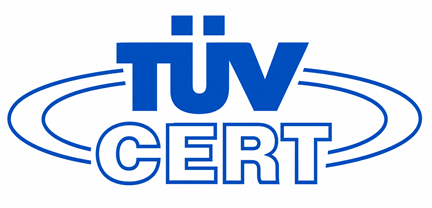
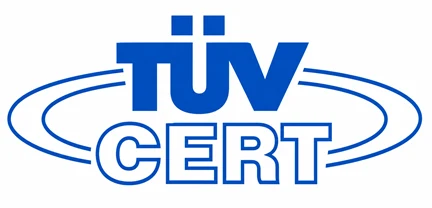
Shrink certificate, header and machinery images; remove leftover PNG
- Re-encode certificate and header as lossy WebP (about 80% smaller)
- Resize the machinery photos to twice their display size
- Update machinery.html image sizes
- Delete the unused harware-&-cons2.png

diff --git a/machinery.html b/machinery.html
@@ -113,7 +113,7 @@
 				</ul>
 			</div>
 			<figure class="spec-photo">
-					<img src="images/machinery-press-1.webp" width="900" height="706" alt="400T BERNAUL Press" loading="lazy" decoding="async" />
+					<img src="images/machinery-press-1.webp" width="400" height="313" alt="400T BERNAUL Press" loading="lazy" decoding="async" />
 					<figcaption>400T-BERNAUL-Press</figcaption>
 				</figure>
 		</div>
@@ -127,11 +127,11 @@
 			</ul>
 			<div class="spec-gallery">
 				<figure class="spec-tile">
-					<img src="images/machinery-kia-turn.webp" width="800" height="600" alt="Kia Turn CNC turning centre" loading="lazy" decoding="async" />
+					<img src="images/machinery-kia-turn.webp" width="680" height="510" alt="Kia Turn CNC turning centre" loading="lazy" decoding="async" />
 					<figcaption>KIA TURN</figcaption>
 				</figure>
 				<figure class="spec-tile">
-					<img src="images/machinery-shearing-press.webp" width="800" height="600" alt="Shearing press" loading="lazy" decoding="async" />
+					<img src="images/machinery-shearing-press.webp" width="680" height="510" alt="Shearing press" loading="lazy" decoding="async" />
 					<figcaption>SHEARING PRESS</figcaption>
 				</figure>
 			</div>
